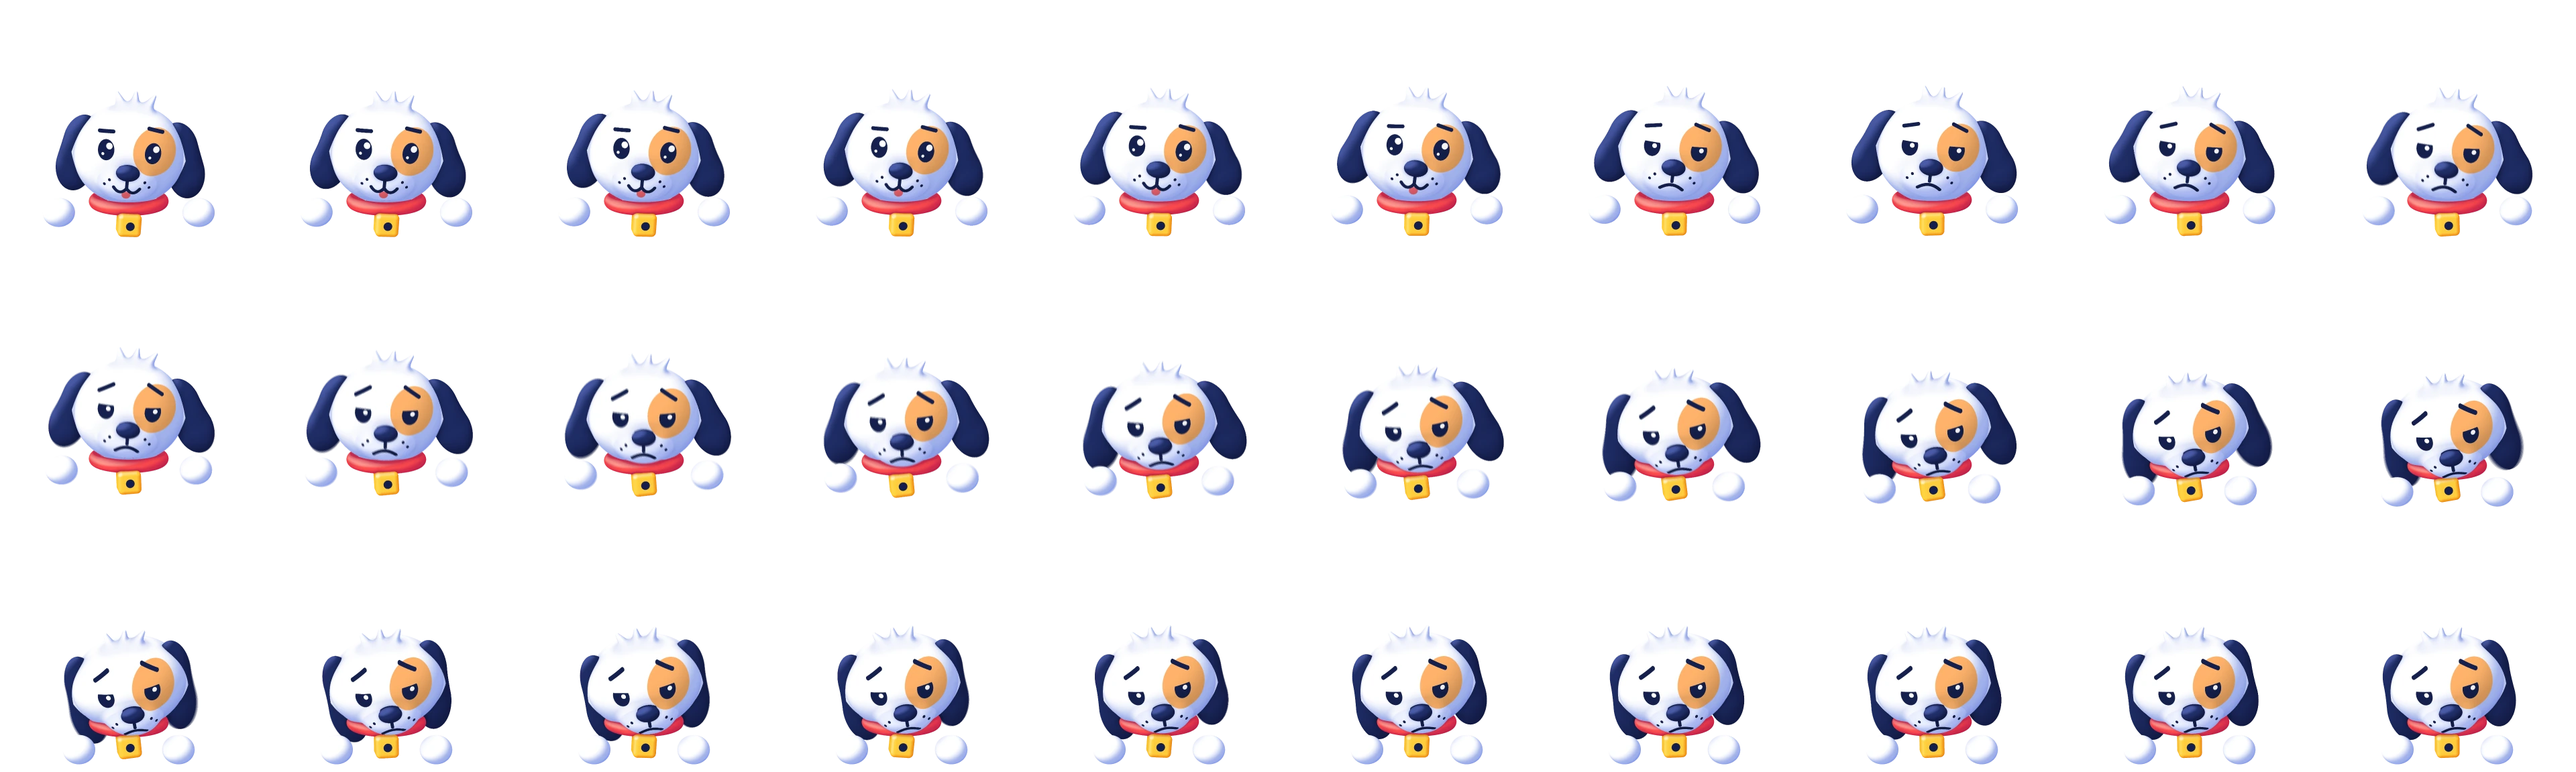
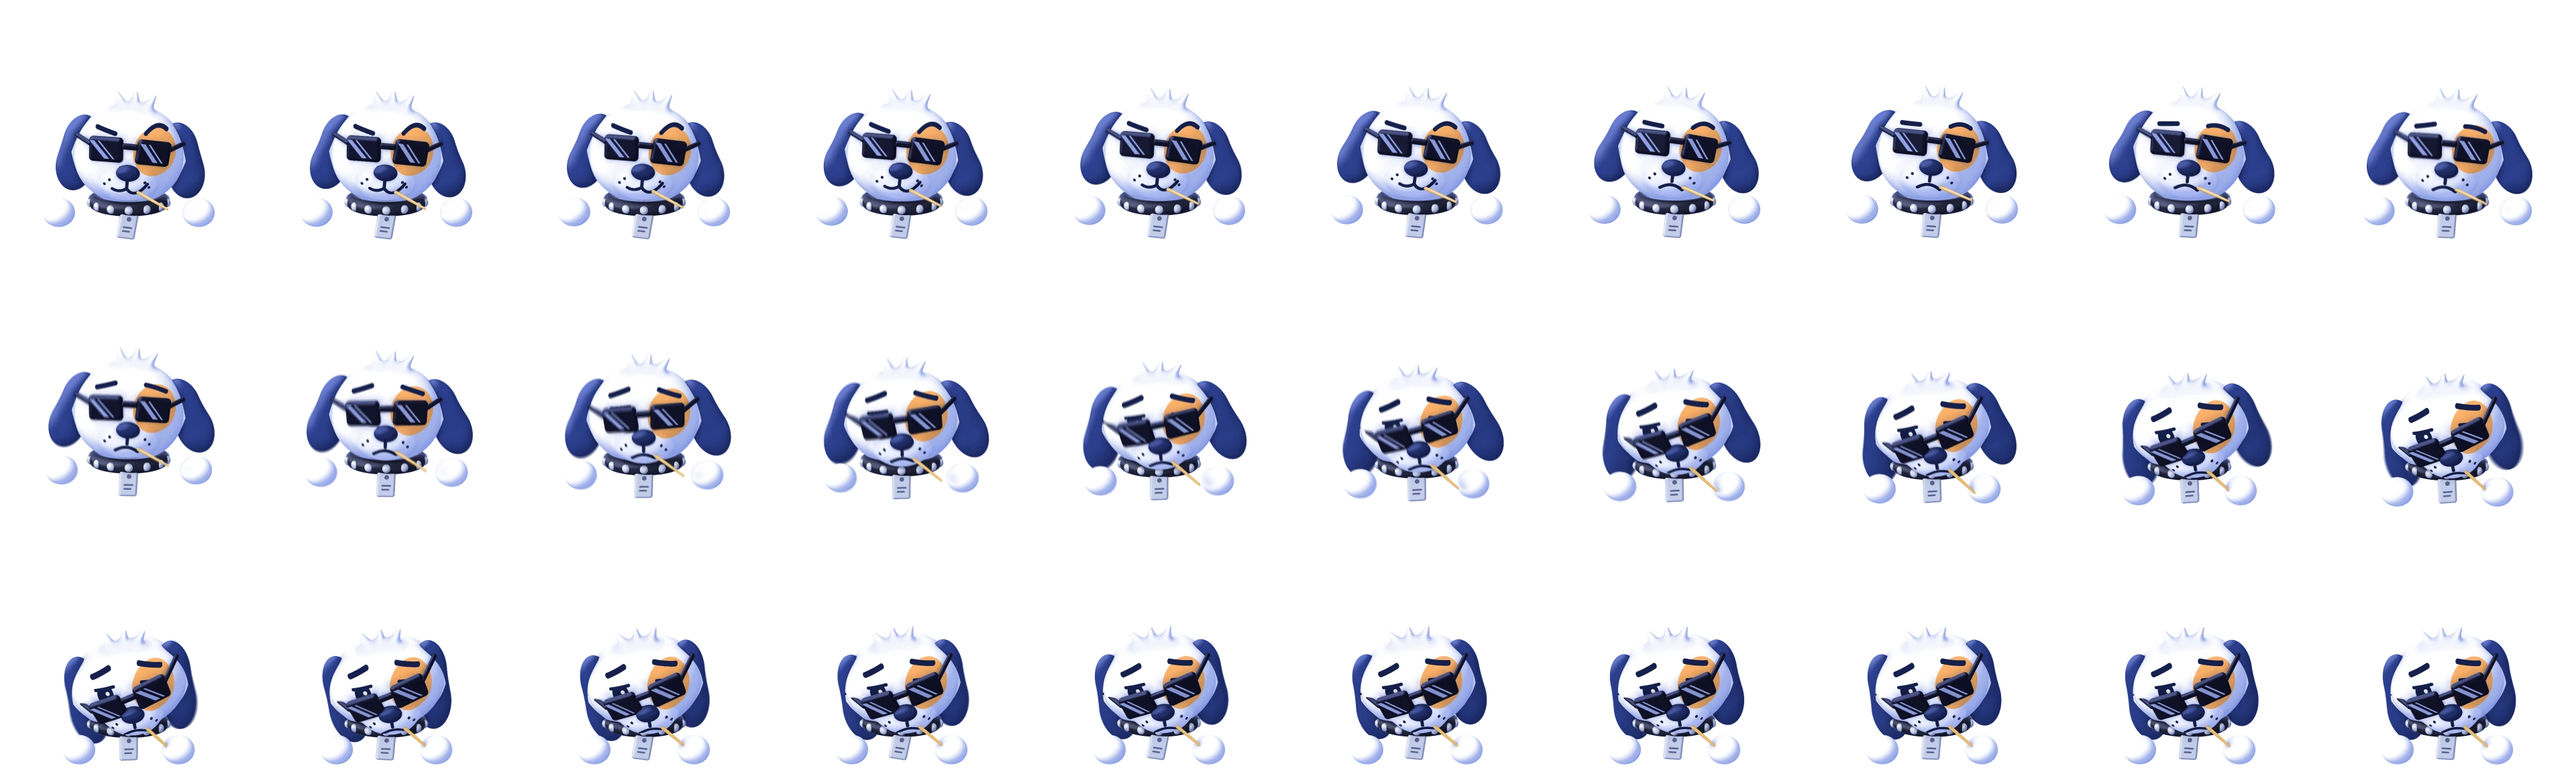
Shades Bones deals at the table; stop the menu panning on phones
Replace the dealer's seven clips with the Shades renders (same cell,
timing and pivot, so no code change). The source sheets and a contact
sheet are kept under design/mascots/shades/.

The menu artwork is wider than a phone screen, which made the page pan
and zoom out. The hero box now spans the window and clips him at its
sides.

Claude-Session: https://claude.ai/code/session_018Hr5EAEUYVg4PvEhfhrJfu

diff --git a/games/dice-draft/css/styles.css b/games/dice-draft/css/styles.css
@@ -101,7 +101,10 @@ button.quiet:hover { color: var(--white); text-decoration: underline; }
 }
 /* The artwork is square with empty margins: his head runs from 23% to 78% of its
    height (collar at the bottom), so the image is 182% of this box and shifted up. */
-.hero { position: relative; flex: 1 1 0; min-height: 110px; width: 100%; }
+/* He is wider than a phone screen on purpose. The box spans the window and clips
+   him at its sides (not top or bottom: his collar overlaps the Play tag), because
+   on a phone anything wider than the screen makes the whole page pan and zoom out. */
+.hero { position: relative; flex: 1 1 0; min-height: 110px; width: 100vw; margin: 0 calc(50% - 50vw); overflow-x: clip; }
 .hero img { position: absolute; left: 50%; top: -42%; height: 182%; aspect-ratio: 1; max-width: none; transform: translateX(-50%); pointer-events: none; user-select: none; }
 .play-ring { position: relative; z-index: 1; width: 26px; height: 26px; margin: -6px 0 -12px; border: 6px solid #B9BCC9; border-radius: 50%; }
 button.play-tag {
